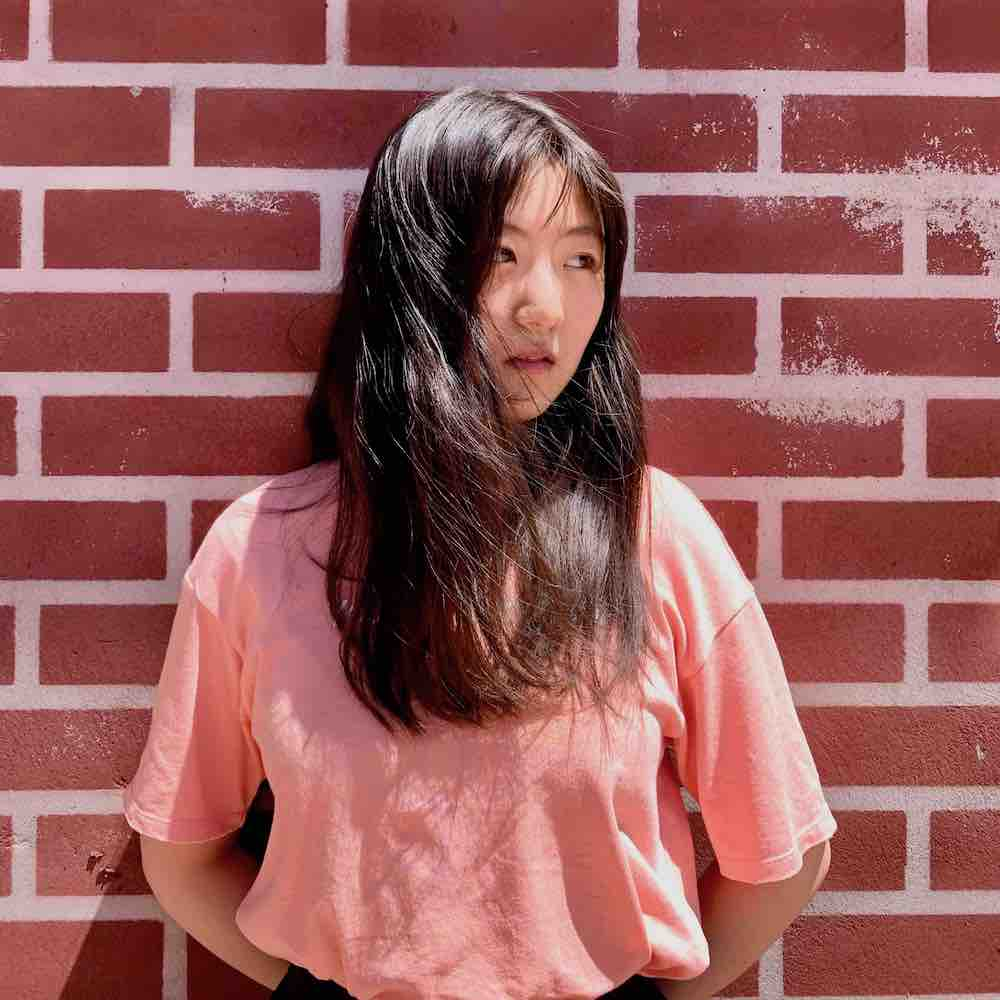
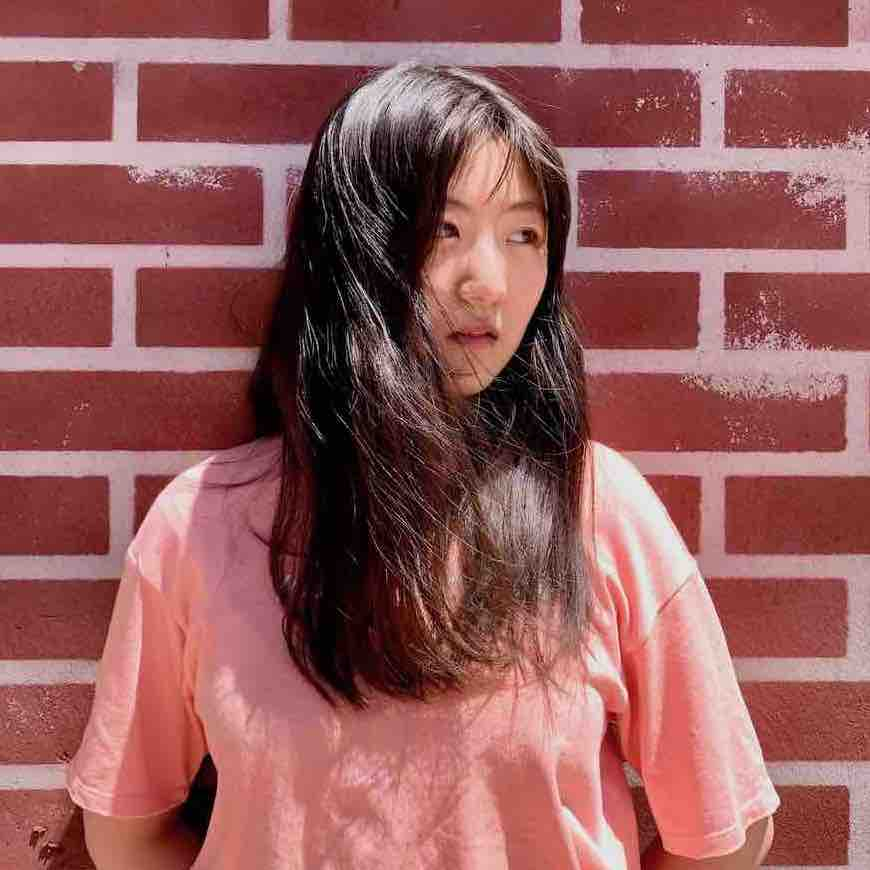
update

diff --git a/liebes.top/index.html b/liebes.top/index.html
@@ -246,9 +246,9 @@
 					<div class="relative">
 						<div class="thumb">
 							<div class="overlay overlay-bg"></div>
-							<img class="image img-fluid" src="img/p6.jpeg" alt="">
+							<img class="image img-fluid" src="img/p3.jpeg" alt="">
 						</div>
-						<a href="img/p6.jpeg" class="img-pop-up">
+						<a href="img/p3.jpeg" class="img-pop-up">
 							<div class="middle">
 								<div class="text align-self-center d-flex"><img src="img/preview.png" alt=""></div>
 							</div>
